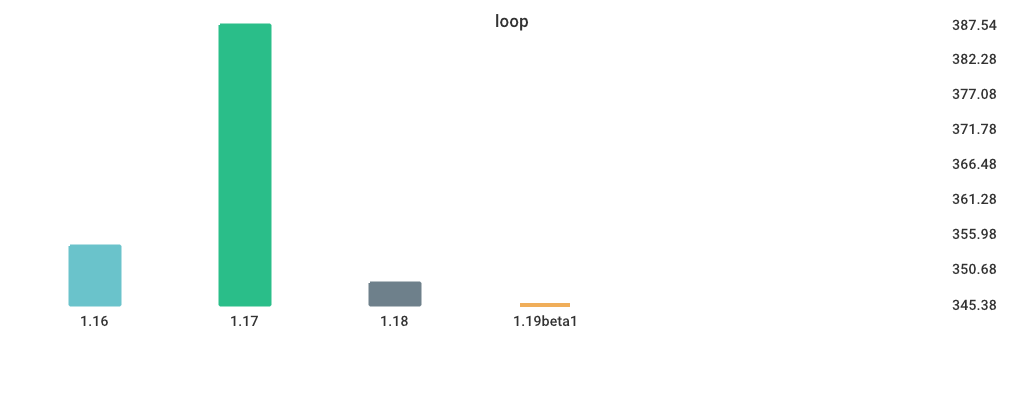
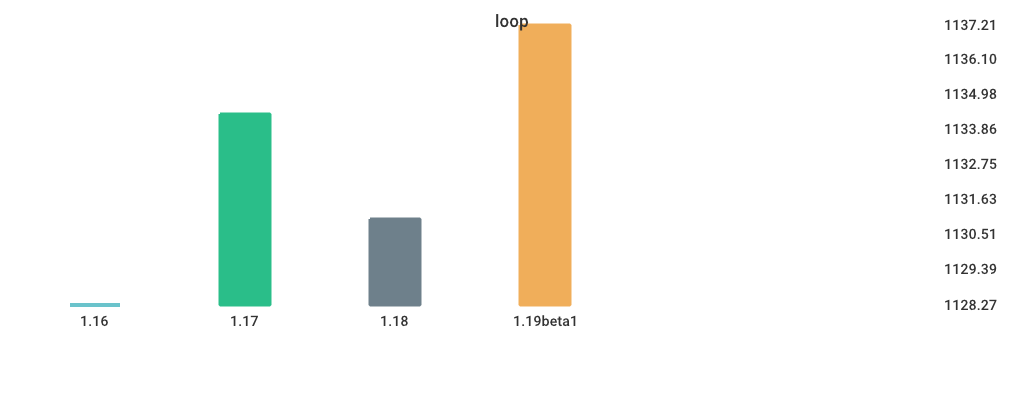
Add Alloc Test

diff --git a/benchmarks/alloc_1.5k/main.go b/benchmarks/alloc_1.5k/main.go
@@ -1,0 +1,21 @@
+package main
+
+const N = 1<<22 - 1
+const N1_5K = 1024 * 1.5
+
+func alloc_1_5k() []byte {
+	mem := make([]byte, N1_5K)
+	for j := range mem {
+		mem[j] = byte(j)
+	}
+	return mem
+}
+
+func main() {
+	for i := 0; i < N; i++ {
+		func() {
+			mem := alloc_1_5k()
+			_ = mem
+		}()
+	}
+}

diff --git a/benchmarks/switch/main.go b/benchmarks/switch/main.go
@@ -5,7 +5,7 @@ import (
 	"fmt"
 )
 
-const N = 1<<32 - 1
+const N = 1<<31 - 1
 
 func main() {
 	var data []uint32

diff --git a/benchmarks/forloop/main.go b/benchmarks/forloop/main.go
@@ -1,6 +1,6 @@
 package main
 
-const N = 1<<30 - 1
+const N = 1<<32 - 1
 
 func main() {
 	v := 0

diff --git a/results/results.md b/results/results.md
@@ -1,13 +1,24 @@
 # Benchmarks
 
+## alloc_1.5k
+
+| Version | Build Time (ms) | Run Time (ms) |
+| ------ | ------ | ------ |
+| 1.16 | 1135.160300 | 2896.399780 |
+| 1.17 | 1151.930760 | 2893.932940 |
+| 1.18 | 1150.387700 | 1968.188900 |
+| 1.19beta1 | 1830.875480 | 1878.336920 |
+
+![alloc_1.5k](./alloc_1.5k.png)
+
 ## loop
 
 | Version | Build Time (ms) | Run Time (ms) |
 | ------ | ------ | ------ |
-| 1.16 | 1344.832720 | 354.223400 |
-| 1.17 | 1253.796180 | 387.541060 |
-| 1.18 | 1229.359220 | 348.652940 |
-| 1.19beta1 | 1856.467680 | 345.379960 |
+| 1.16 | 1140.519540 | 1128.268600 |
+| 1.17 | 1161.002740 | 1134.360780 |
+| 1.18 | 1128.741640 | 1130.999360 |
+| 1.19beta1 | 1775.574360 | 1137.212040 |
 
 ![loop](./loop.png)
 
@@ -15,10 +26,10 @@
 
 | Version | Build Time (ms) | Run Time (ms) |
 | ------ | ------ | ------ |
-| 1.16 | 1550.706580 | 8783.793000 |
-| 1.17 | 1563.767240 | 9083.710160 |
-| 1.18 | 1575.895220 | 9058.731940 |
-| 1.19beta1 | 2213.014460 | 5891.513120 |
+| 1.16 | 1456.376080 | 4512.450660 |
+| 1.17 | 1514.662300 | 4611.179160 |
+| 1.18 | 1487.793760 | 4602.192480 |
+| 1.19beta1 | 2124.521160 | 2718.251400 |
 
 ![switch-case](./switch-case.png)
 
